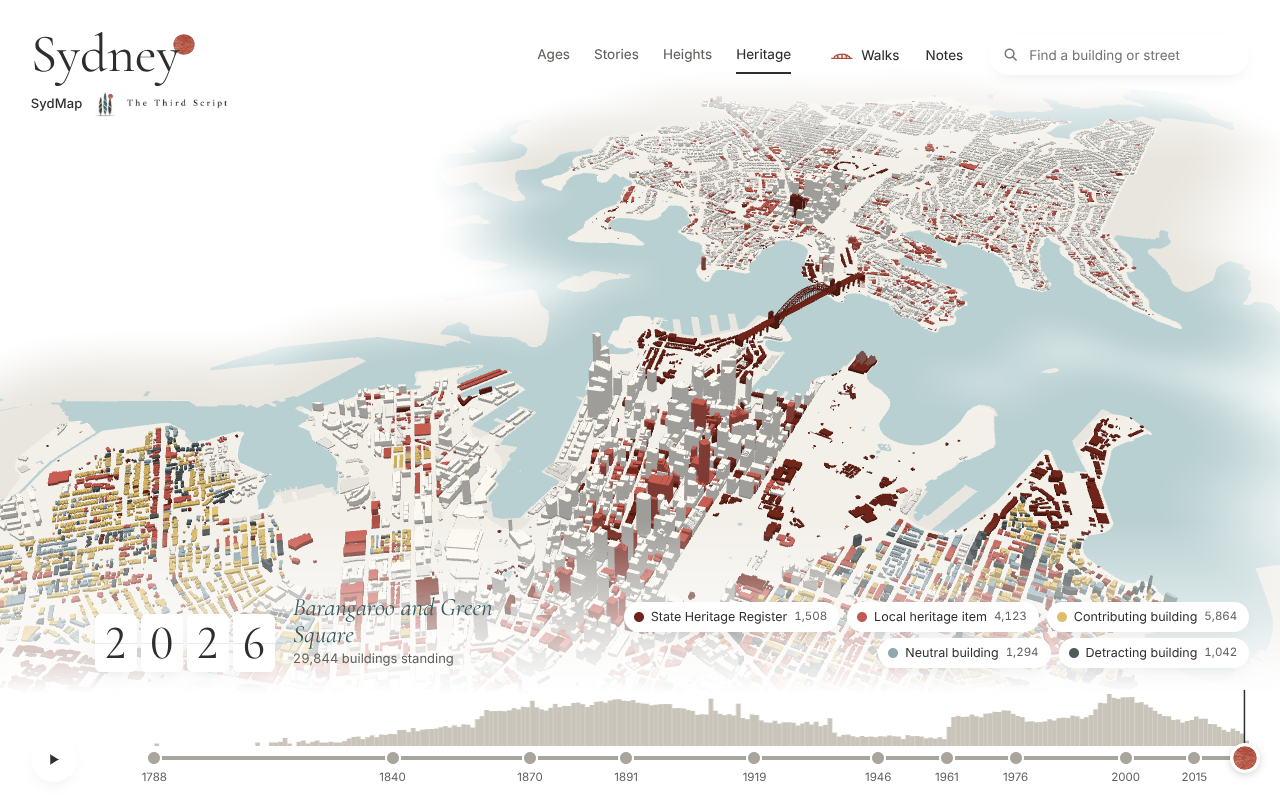
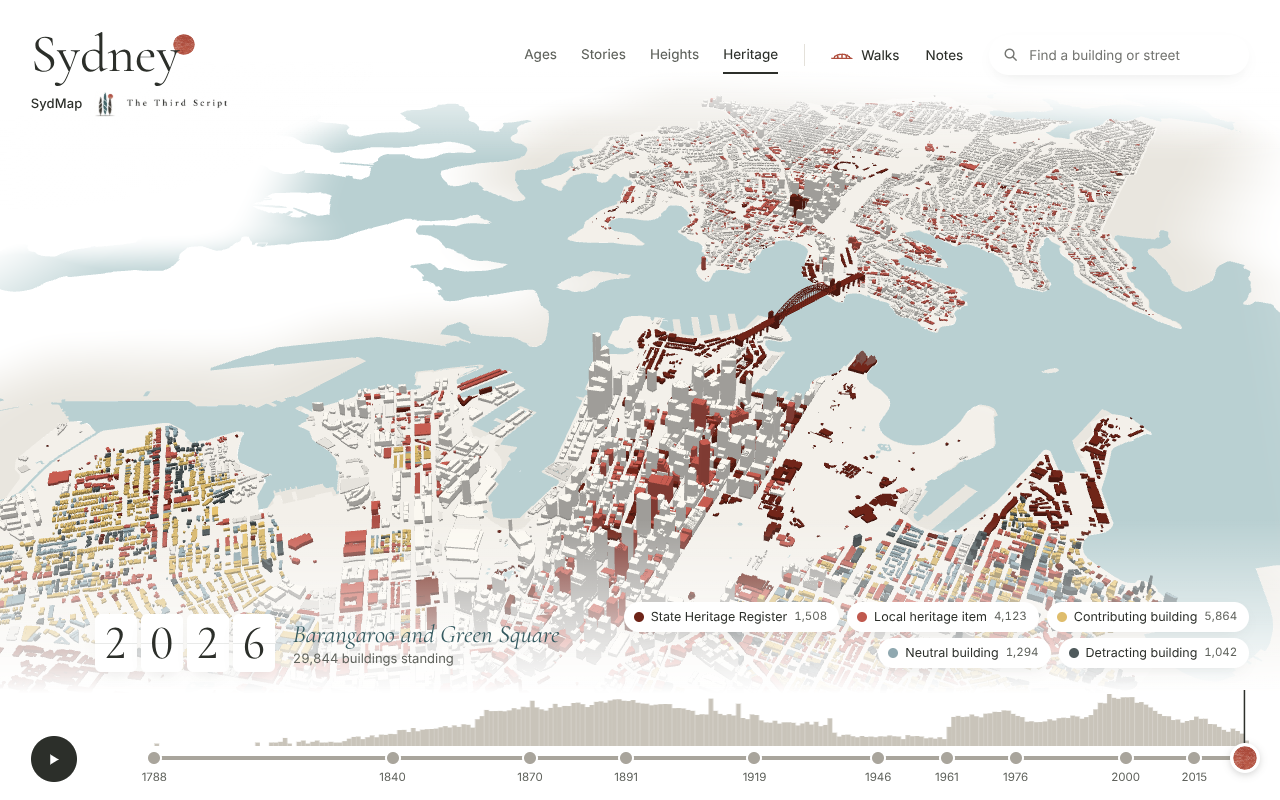
Keep the harbour clear, and bring back the charcoal play button and the divider
The edge fade measured from the nearest building also whitened open water
in the middle of the harbour. Water now fades only far out (from 1.7 km),
and every ground layer fades over the last 1.5 km before the mapped area
ends, so the water never stops in a straight line.

The play button is a charcoal disc and a hairline divides the lenses from
Walks and Notes again, as in the prototype the layout was chosen from. The
age beside the year is named from the first paint.

Claude-Session: https://claude.ai/code/session_0173dqPRDT7272Y1ZudC3e9y

diff --git a/web/styles.css b/web/styles.css
@@ -81,7 +81,7 @@ h1 .sun-disc { position: absolute; z-index: -1; width: .4em; height: .4em; right
 
 .bar { position: fixed; top: calc(env(safe-area-inset-top, 0px) + var(--gutter) + 4px); right: var(--gutter); z-index: 3;
   display: flex; align-items: center; gap: 26px; }
-.lenses { margin-right: 14px; }
+.bar-sep { width: 1px; height: 22px; background: var(--rule); }
 .lenses { display: flex; gap: 24px; }
 .bar button { border: 0; background: none; padding: 8px 0; cursor: pointer; font-weight: 450; }
 .lenses button { color: var(--muted); border-bottom: 2px solid transparent; transition: color .3s var(--ease), border-color .3s var(--ease); }
@@ -322,8 +322,8 @@ h1 .sun-disc { position: absolute; z-index: -1; width: .4em; height: .4em; right
 .ramp > div:last-child { padding-bottom: 6px; } .ramp > div { padding-bottom: 6px; }
 
 .time-line { display: flex; align-items: flex-start; gap: 18px; }
-.play { position: relative; width: 46px; height: 46px; margin-top: 46px; border: 0; padding: 0; border-radius: 50%; background: var(--paper);
-  color: var(--ink); box-shadow: var(--shadow-sm); cursor: pointer; display: grid; place-items: center; flex: none; transition: transform .5s var(--ease); }
+.play { position: relative; width: 46px; height: 46px; margin-top: 46px; border: 0; padding: 0; border-radius: 50%; background: var(--ink);
+  color: var(--paper); cursor: pointer; display: grid; place-items: center; flex: none; transition: transform .5s var(--ease); }
 .play:hover { transform: scale(1.05); }
 .play svg { width: 15px; height: 15px; fill: currentColor; }
 .track { position: relative; flex: 1; height: 98px; }
@@ -393,7 +393,6 @@ h1 .sun-disc { position: absolute; z-index: -1; width: .4em; height: .4em; right
   .studio-mark { width: 19px; height: 22px; } .studio-word { width: 88px; height: 11px; }
   .bar { top: calc(env(safe-area-inset-top, 0px) + 86px); left: 0; right: 0; gap: 18px; padding: 0 40px 0 16px; overflow-x: auto; scrollbar-width: none;
     -webkit-mask-image: linear-gradient(90deg, #000 calc(100% - 44px), transparent); mask-image: linear-gradient(90deg, #000 calc(100% - 44px), transparent); }
-  .lenses { margin-right: 0; }
   .bar::-webkit-scrollbar { display: none; }
   .lenses { gap: 16px; }
   .bar button { flex: none; white-space: nowrap; }

diff --git a/web/app.js b/web/app.js
@@ -127,20 +127,25 @@ const EDGE = (() => {
 const EDGE_GLSL = `
   uniform sampler2D uEdge;
   uniform vec2 uEdgeMin, uEdgeSize;
+  uniform vec2 uFadeRange;
   float edgeFade(vec2 p) {
     float metres = texture2D(uEdge, (p - uEdgeMin) / uEdgeSize).r * 2550.0;
-    return smoothstep(260.0, 1150.0, metres);
+    // Also into the wall over the last 1.5 km before the mapped ground ends, so open water never stops in a straight line.
+    vec2 q = min(p - uEdgeMin, uEdgeMin + uEdgeSize - p);
+    return max(smoothstep(uFadeRange.x, uFadeRange.y, metres), 1.0 - smoothstep(0.0, 1500.0, min(q.x, q.y)));
   }`;
-function groundMaterial(color) {
+// Land fades from 260 m beyond the nearest building; the water only far out, so the harbour between the shores stays
+// clear and only the open water at the edge of the map goes into the wall.
+function groundMaterial(color, from = 260, to = 1150) {
   return new THREE.ShaderMaterial({
-    uniforms: { uColor: { value: new THREE.Color(color) }, uWall: { value: new THREE.Color(SKY) }, ...EDGE },
+    uniforms: { uColor: { value: new THREE.Color(color) }, uWall: { value: new THREE.Color(SKY) }, uFadeRange: { value: new THREE.Vector2(from, to) }, ...EDGE },
     vertexShader: 'varying vec2 vXZ; void main() { vec4 w = modelMatrix * vec4(position, 1.0); vXZ = w.xz; gl_Position = projectionMatrix * viewMatrix * w; }',
     fragmentShader: `uniform vec3 uColor, uWall; varying vec2 vXZ; ${EDGE_GLSL}
       void main() { gl_FragColor = vec4(mix(uColor, uWall, edgeFade(vXZ)), 1.0); }`,
   });
 }
 const land = new THREE.Mesh(landGeo, groundMaterial(LAND));
-const water = new THREE.Mesh(waterGeo, groundMaterial(WATER));
+const water = new THREE.Mesh(waterGeo, groundMaterial(WATER, 1700, 2500));
 const context = new THREE.Mesh(contextGeo, groundMaterial(CONTEXT));
 land.position.y = -0.05;
 context.position.y = -0.1;

diff --git a/web/index.html b/web/index.html
@@ -40,6 +40,7 @@
     <button data-mode="1" aria-pressed="false">Heights</button>
     <button data-mode="2" aria-pressed="false">Heritage</button>
   </div>
+  <i class="bar-sep" aria-hidden="true"></i>
   <button class="walks-open"><svg class="arch" viewBox="0 0 26 9" aria-hidden="true"><path d="M1 8.5h24M3 8.5C6 2 20 2 23 8.5M8 4.6v3.9M13 3.4v5.1M18 4.6v3.9"/></svg>Walks</button>
   <button class="notes-open">Notes</button>
   <form class="find" role="search" autocomplete="off">
@@ -161,7 +162,7 @@
 <section class="time" aria-label="Time">
   <div class="time-head">
     <div class="flaps" aria-hidden="true"><span class="flap">2</span><span class="flap">0</span><span class="flap">2</span><span class="flap">6</span></div>
-    <p class="time-what" aria-live="polite"><i id="era">Today</i><span><span id="year" class="sr-only">Today, </span><span id="count" class="n">29,844 buildings standing</span></span></p>
+    <p class="time-what" aria-live="polite"><i id="era">Barangaroo and Green Square</i><span><span id="year" class="sr-only">Today, </span><span id="count" class="n">29,844 buildings standing</span></span></p>
     <div id="key" class="key"></div>
   </div>
   <div class="time-line">

diff --git a/DESIGN.md b/DESIGN.md
@@ -240,8 +240,8 @@ Sheets (the dock, the find field, flaps, chips, the hover label) are paper with 
 border: `0 6px 16px -8px` at 14% and `0 16px 36px -20px` at 22% for small sheets, `0 24px 48px -20px` at 28% for the
 dock and dialogs. The wall comes forward over the model at the top and bottom (veils) and in a soft patch behind the
 name. The ground fades into the wall with distance from the nearest building (a smoothed 50 m distance field, from
-260 m out to 1,150 m; `EDGE` and `edgeFade` in `app.js`), so its edge follows the councils' outline and the harbour
-between them, never a box. The camera stops at 22 km so the far shores stay out of view.
+260 m out to 1,150 m; `EDGE` and `edgeFade` in `app.js`), so its edge follows the councils' outline, never a box. Water
+fades only from 1,700 m, so the harbour between the shores stays clear. The camera stops at 22 km so the far shores stay out of view.
 
 ## Shapes
 
@@ -264,7 +264,7 @@ paper flaps with a hairline across the middle; ticket stubs (4px corners, dotted
   the studio's colophon.
 - **Time band:** four paper flaps that turn over when a digit changes; the age's name in teal italic and the count;
   the key (Ages: "Each station on the line is an age: choose one to see its buildings" or "Only the boom
-  years ×", and the "Estimated years" switch; Heights: a storeys ramp; Heritage: five chips; Stories: the story's groups as switches); the play button (a paper disc with an ink triangle); the
+  years ×", and the "Estimated years" switch; Heights: a storeys ramp; Heritage: five chips; Stories: the story's groups as switches); the play button (a charcoal disc); the
   line: bars of each year's buildings in stone, the ten stretches and stations, the sun as the year, a hollow marker for the
   start of a range once it is moved. The line is a slider for the keyboard (arrows, Shift, Home, End).
 - **Walks:** a list of routes (title, intro, level as a word, stops, progress, Start/Carry on/Walk again); a walk: title
